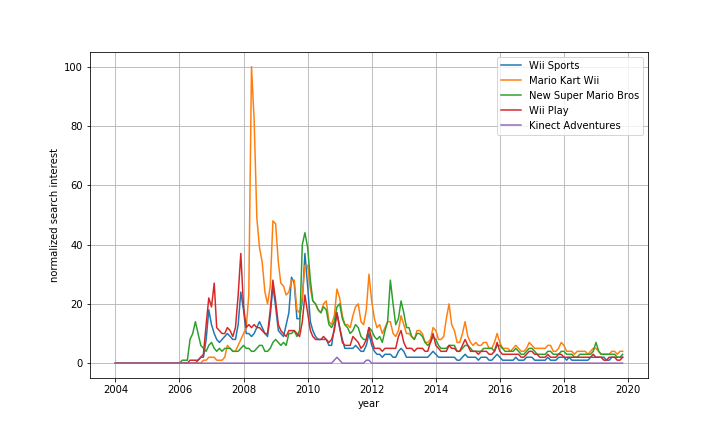
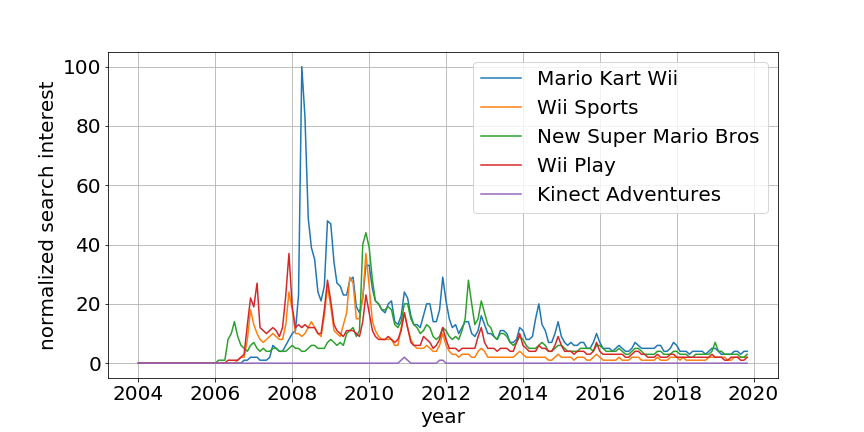
video_game

diff --git a/video_game/google_trends_data.py b/video_game/google_trends_data.py
@@ -2,7 +2,7 @@
 """
 Created on Wed Nov  6 10:56:53 2019
 
-@author: Xiaol
+@author: Xiaolong He
 """
 
 
@@ -10,26 +10,52 @@ from pytrends.request import TrendReq
 import matplotlib.pyplot as plt
 import pandas as pd
 import numpy as np
+plt.rcParams.update({'font.size':20})
 
-kw_LIST=['Wii Sports','Mario Kart Wii','New Super Mario Bros','Wii Play','Kinect Adventures',\
+kw_LIST=['Mario Kart Wii','Wii Sports','New Super Mario Bros','Wii Play','Kinect Adventures',\
          'Nintendogs','Mario Kart DS','Wii Fit','Grand Theft Auto V']
 
-pytrend = TrendReq() # Login to Google
-data = pd.DataFrame()
+pytrend = TrendReq()        # Login to Google
+data = pd.DataFrame()       # initialize dataframe
 n_req = (len(kw_LIST)-1)//4 # number of search requests
+kw_ref = kw_LIST[0]         # reference key word, for normalization purpose
+
 for i in range(n_req):
-    kw = [kw_LIST[0]]
+    # key word list (max=5 for each search request)
+    kw = [kw_ref]
     [kw.append(kw_LIST[i]) for i in range(4*i+1,4*(i+1)+1)]
-    pytrend.build_payload(kw_list=kw,cat='41',timeframe='2004-01-01 2019-11-08')
-    data = pd.concat([data,pytrend.interest_over_time()],axis=1) # Interest Over Time
-    data = data.drop('isPartial',axis=1)
     
-    plt.figure(figsize=(10,6))
+    # scrape data
+    pytrend.build_payload(kw_list=kw,cat='41',timeframe='2004-01-01 2019-11-08')
+    temp = pytrend.interest_over_time()
+    temp = temp.drop('isPartial',axis=1)
+    
+    if i > 0:
+        # adjust normalization
+        r = data[kw_ref] / temp[kw_ref]
+        m = np.ma.masked_array(r,np.isnan(r))
+        m = np.ma.masked_invalid(m)
+        m = np.mean(m)
+        temp = temp.drop(kw_ref,axis=1)
+        temp = temp.loc[:,kw[1]:kw[-1]] * m 
+    
+    # join dataframes
+    data = pd.concat([data,temp],axis=1) # Interest Over Time
+    
+    # plot dataframes
+    plt.figure(figsize=(12,6))
     [plt.plot(data[i],label=i) for i in kw]
     plt.legend()
     plt.grid()
     plt.xlabel('year')
     plt.ylabel('normalized search interest')
     plt.savefig(f'./figures/{i}.png',bbox_inches=None)
-#print(data.head())
 
+
+plt.figure(figsize=(12,6))
+[plt.plot(data[i],label=i) for i in kw_LIST]
+plt.legend(bbox_to_anchor=(1,1.2))
+plt.grid()
+plt.xlabel('year')
+plt.ylabel('normalized search interest')
+plt.savefig('./figures/all_data.png',bbox_inches=None)
